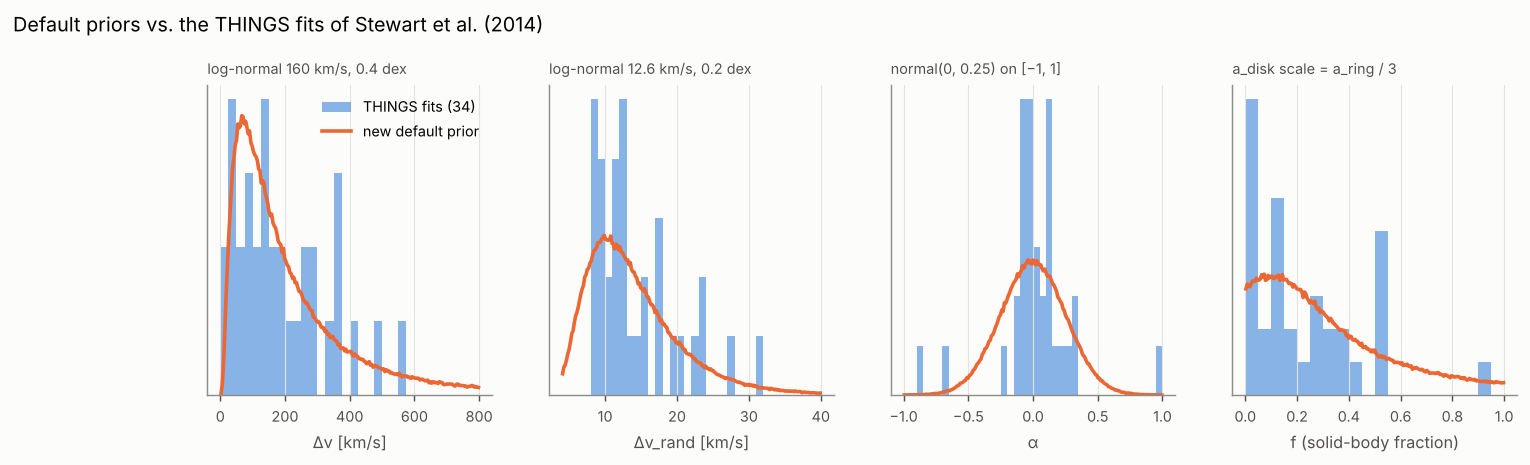
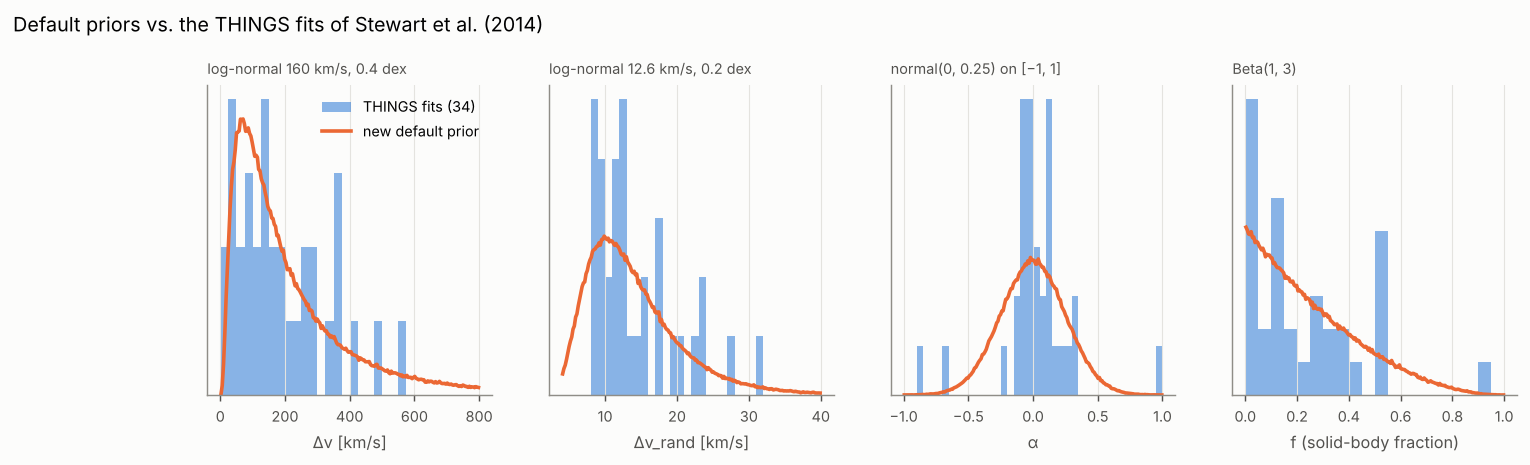
f prior Beta(1, 3) from THINGS; f bounds are not prior edges
A uniform prior on the solid-body fraction gave dome-shaped, solid-body
profiles 30 % of the prior mass; at low S/N it pulled posterior medians
to 0.5-0.8 even for 350 km/s wide lines, an unphysical combination. The
THINGS fits reject a uniform f (KS p < 0.001); Beta(1, 3), density
3 (1 - f)^2, matches them (p = 0.13) and is close to the exponentially
decreasing prior described by Stewart et al. (2014, App. B.2). New prior
kind 'beta' (shapes a, b on [low, high]); the simulator draws from it.

f is no longer checked by the prior-edge diagnostic: [0, 1] is its
definition and f near 0 is a valid result, not a truncation.

Claude-Session: https://claude.ai/code/session_01HNuVsUUJVtD1RaQHWi7F3J

diff --git a/hiprofile/inference/priors.py b/hiprofile/inference/priors.py
@@ -46,7 +46,7 @@ class Bounds1D:
 
     ``uniform`` and ``loguniform`` on [low, high]; ``normal`` (mean, std) and
     ``lognormal`` (mean, std of log10 x), truncated to [low, high] (infinite
-    bounds allowed).
+    bounds allowed); ``beta`` (shapes a, b) scaled to [low, high].
     """
 
     kind: str
@@ -54,6 +54,8 @@ class Bounds1D:
     high: float
     mean: float = 0.0
     std: float = 1.0
+    a: float = 1.0
+    b: float = 1.0
 
     def _z(self, x: np.ndarray) -> np.ndarray:
         x = np.asarray(x, dtype=float)
@@ -74,6 +76,8 @@ class Bounds1D:
             return self.low + (self.high - self.low) * u
         if self.kind == "loguniform":
             return np.exp(np.log(self.low) + (np.log(self.high) - np.log(self.low)) * u)
+        if self.kind == "beta":
+            return self.low + (self.high - self.low) * special.betaincinv(self.a, self.b, u)
         c_lo, c_hi = self._trunc()
         z = special.ndtri(np.clip(c_lo + (c_hi - c_lo) * u, 1e-300, 1 - 1e-16))
         x = 10.0 ** (self.mean + self.std * z) if self.kind == "lognormal" else self.mean + self.std * z
@@ -85,6 +89,9 @@ class Bounds1D:
             return np.clip((x - self.low) / (self.high - self.low), 0.0, 1.0)
         if self.kind == "loguniform":
             return np.clip((np.log(x) - np.log(self.low)) / (np.log(self.high) - np.log(self.low)), 0.0, 1.0)
+        if self.kind == "beta":
+            t = np.clip((x - self.low) / (self.high - self.low), 0.0, 1.0)
+            return special.betainc(self.a, self.b, t)
         c_lo, c_hi = self._trunc()
         return np.clip((special.ndtr(self._z(x)) - c_lo) / (c_hi - c_lo), 0.0, 1.0)
 
@@ -109,6 +116,8 @@ def _bounds(r: Range, default_low: float, default_high: float) -> Bounds1D:
         high=float(high),
         mean=0.0 if r.mean is None else float(r.mean),
         std=1.0 if r.std is None else float(r.std),
+        a=1.0 if r.a is None else float(r.a),
+        b=1.0 if r.b is None else float(r.b),
     )
 
 
@@ -263,7 +272,11 @@ class ModelPrior:
         return u
 
     def edge_bounds(self) -> dict[str, tuple[float, float]]:
-        """Hard prior edges of each named parameter (for the prior-edge diagnostic)."""
+        """Hard prior edges of each named parameter (for the prior-edge diagnostic).
+
+        Only truncations the truth could lie beyond count. f is left out: [0, 1]
+        is its definition, and f near 0 (no solid-body part) is a valid result.
+        """
         out: dict[str, tuple[float, float]] = {}
         for name in self.names:
             if name.startswith("delta_v_rand"):
@@ -272,8 +285,6 @@ class ModelPrior:
                 out[name] = self.delta_v.edges
             elif name.startswith("alpha"):
                 out[name] = self.alpha.edges
-            elif name.startswith("f_"):
-                out[name] = self.f.edges
         return out
 
     def __call__(self, u: np.ndarray) -> np.ndarray:

diff --git a/hiprofile/config.py b/hiprofile/config.py
@@ -21,20 +21,25 @@ class Range(_Base):
     """A one-dimensional prior.
 
     ``uniform`` and ``loguniform`` on [low, high]; ``normal`` (mean, std) and
-    ``lognormal`` (mean and std of log10 x) optionally truncated to [low, high].
+    ``lognormal`` (mean and std of log10 x) optionally truncated to [low, high];
+    ``beta`` (shape parameters a, b) scaled to [low, high].
     """
 
-    kind: Literal["uniform", "loguniform", "normal", "lognormal"] = "uniform"
+    kind: Literal["uniform", "loguniform", "normal", "lognormal", "beta"] = "uniform"
     low: float | None = None
     high: float | None = None
     mean: float | None = None
     std: float | None = None
+    a: float | None = None
+    b: float | None = None
 
     @model_validator(mode="after")
     def _check(self) -> Range:
         if self.kind in ("normal", "lognormal"):
             if self.mean is None or self.std is None or self.std <= 0:
                 raise ValueError(f"{self.kind} prior needs mean and std > 0")
+        if self.kind == "beta" and (self.a is None or self.b is None or self.a <= 0 or self.b <= 0):
+            raise ValueError("beta prior needs shape parameters a > 0 and b > 0")
         if self.low is not None and self.high is not None and self.high <= self.low:
             raise ValueError("prior needs high > low")
         if self.kind == "loguniform" and self.low is not None and self.low <= 0:
@@ -66,9 +71,9 @@ class Priors(_Base):
         description="Asymmetry: normal(0, 0.25) truncated to [-1, 1] (THINGS: median 0.00, robust std 0.14)",
     )
     f: Range = Field(
-        default_factory=lambda: Range(kind="uniform", low=0.0, high=1.0),
-        description="Solid-body fraction: uniform on [0, 1] (Stewart et al. used a nearly flat "
-        "exponential; THINGS median 0.15, mean 0.23)",
+        default_factory=lambda: Range(kind="beta", a=1.0, b=3.0, low=0.0, high=1.0),
+        description="Solid-body fraction: Beta(1, 3), density 3 (1 - f)^2, median 0.21, P(f > 0.7) = 2.7 %; "
+        "fitted to the 34 THINGS galaxies (median 0.15, 3 % above 0.7), which reject a uniform prior",
     )
     amplitude_scale: float | Literal["auto"] = Field(
         "auto",
@@ -91,8 +96,8 @@ class Priors(_Base):
     @classmethod
     def _bounded(cls, v: Range, info: ValidationInfo) -> Range:
         lo_max, hi_max = (-1.0, 1.0) if info.field_name == "alpha" else (0.0, 1.0)
-        if v.kind not in ("uniform", "normal"):
-            raise ValueError(f"{info.field_name} prior must be uniform or (truncated) normal")
+        if v.kind not in ("uniform", "normal", "beta"):
+            raise ValueError(f"{info.field_name} prior must be uniform, (truncated) normal or beta")
         low = lo_max if v.low is None else v.low
         high = hi_max if v.high is None else v.high
         if low < lo_max or high > hi_max:

diff --git a/tests/test_priors.py b/tests/test_priors.py
@@ -32,11 +32,11 @@ def test_normal_centre_prior():
     p = build_prior(("profile",), pr, v)
     t = p(np.full((1, 5), 0.5))
     assert abs(t[0, 0] - 250.0) < 1e-9
-    assert abs(t[0, 4] - 0.5) < 1e-12  # uniform f
+    assert abs(t[0, 4] - (1 - 0.5 ** (1 / 3))) < 1e-12  # median of Beta(1, 3)
 
 
 def test_default_shapes_follow_things(rng):
-    """Defaults: Delta v ~ 160 km/s, Delta v_rand ~ 12.6 km/s, alpha ~ N(0, 0.25), f uniform."""
+    """Defaults: Delta v ~ 160 km/s, Delta v_rand ~ 12.6 km/s, alpha ~ N(0, 0.25), f ~ Beta(1, 3)."""
     v = np.arange(1000) * 5.0
     p = build_prior(("profile",), Priors(), v)
     t = p(rng.uniform(size=(200000, 5)))
@@ -46,17 +46,25 @@ def test_default_shapes_follow_things(rng):
     assert abs(np.median(dv) - 151.4) < 3 and dv.max() <= 800.0
     assert abs(np.median(sig) - 12.6) < 0.3 and sig.min() >= 4.0 and sig.max() <= 60.0
     assert abs(np.std(a) - 0.25) < 0.01 and np.all(np.abs(a) <= 1)
-    assert abs(np.mean(f) - 0.5) < 0.005 and abs(np.std(f) - 1 / np.sqrt(12)) < 0.003
+    assert abs(np.mean(f) - 0.25) < 0.003 and abs(np.median(f) - (1 - 0.5 ** (1 / 3))) < 0.003
+    assert abs(np.mean(f > 0.7) - 0.3**3) < 0.002 and f.min() >= 0 and f.max() <= 1
 
 
-def test_edges_include_f():
+def test_edges_exclude_definitional_bounds_of_f():
     p = build_prior(("profile",), Priors(), np.arange(100) * 5.0)
-    assert p.edge_bounds()["f_1"] == (0.0, 1.0)
+    edges = p.edge_bounds()
+    assert "f_1" not in edges
+    assert edges["delta_v_rand_1"] == (4.0, 60.0) and edges["alpha_1"] == (-1.0, 1.0)
 
 
 def test_truncated_round_trip(rng):
     from hiprofile.inference.priors import Bounds1D
 
     u = rng.uniform(size=1000)
-    for b in (Bounds1D("lognormal", 4.0, 60.0, mean=1.1, std=0.2), Bounds1D("normal", -1.0, 1.0, std=0.25)):
+    for b in (
+        Bounds1D("lognormal", 4.0, 60.0, mean=1.1, std=0.2),
+        Bounds1D("normal", -1.0, 1.0, std=0.25),
+        Bounds1D("beta", 0.0, 1.0, a=1.0, b=3.0),
+        Bounds1D("beta", 0.0, 1.0, a=0.55, b=1.86),
+    ):
         np.testing.assert_allclose(b.inverse(b.transform(u)), u, atol=1e-10)

diff --git a/docs/make_figures.py b/docs/make_figures.py
@@ -69,7 +69,7 @@ def priors() -> Path:
         ),
         ("delta_v_rand", "Δv_rand [km/s]", np.linspace(4, 40, 37), "log-normal 12.6 km/s, 0.2 dex"),
         ("alpha", "α", np.linspace(-1, 1, 41), "normal(0, 0.25) on [−1, 1]"),
-        ("f", "f (solid-body fraction)", np.linspace(0, 1, 21), "uniform on [0, 1]"),
+        ("f", "f (solid-body fraction)", np.linspace(0, 1, 21), "Beta(1, 3)"),
     ]
     fig, axes = plt.subplots(1, 4, figsize=(13, 3.1))
     for ax, (key, label, bins, desc) in zip(axes, panels, strict=True):

diff --git a/docs/priors.md b/docs/priors.md
@@ -13,18 +13,31 @@ lower S/N.
 | Δv | log-normal, log₁₀ = 2.2 ± 0.4 (≈ 160 km/s), ≤ 800 km/s | 0.1–566 km/s, median 153; two dwarfs with Δv ≈ 0 | Stewart B.2: log-normal 2.2 ± 0.3; ALFALFA width function: modified Schechter with w* ≈ 300 km/s, α ≈ −0.56 (Oman 2022) |
 | Δv_rand | log-normal, log₁₀ = 1.1 ± 0.2 (≈ 12.6 km/s), 4–60 km/s | 8–32 km/s, median 12.4, log₁₀ 1.13 ± 0.16 | Stewart B.2: 1.17 ± 0.14; resolved HI dispersions ≈ 10 ± 2 km/s (Tamburro et al. 2009); narrow / broad super-profile components 6.5 ± 1.5 / 16.8 ± 4.3 km/s (Ianjamasimanana et al. 2012) |
 | α | normal(0, 0.25) truncated to [−1, 1] | median 0.00, robust σ 0.14; 3 of 34 with \|α\| > 0.6 (NGC 3077, NGC 1569, Ho I) | Stewart B.2: normal(0, 0.2) |
-| f | uniform on [0, 1] (sampled parameter) | median 0.15, mean 0.23 | Stewart B.2: exponential with scale 0.3, i.e. nearly flat on [0, 1] |
+| f | Beta(1, 3), density 3(1 − f)², median 0.21, P(f > 0.7) = 2.7 % | median 0.15, mean 0.23, 1 of 34 above 0.7 (0.93); a uniform prior is rejected (KS p < 0.001), Beta(1, 3) is not (p = 0.13) | Stewart B.2: exponentially decreasing with characteristic constant 0.3 (printed as 0.3 e^(−0.3 f), which would be nearly flat; the text describes a decreasing prior) |
 | v_ctr | uniform over the band minus 5 % margins; normal(v_cat, 20–50 km/s) for targeted spectra | – | Stewart B.2: normal, σ = 20 km/s |
 | S | half-normal (`amplitude_scale`, fix per survey) | – | Stewart: flat (improper, unusable for evidences) |
 | K | flat over `k_min` … `k_max`, coefficients N(0, `baseline_scale`²) | – | Stewart: order by maximum evidence |
 
 All priors are simple one-parameter-family shapes (log-normal, truncated
-normal, uniform, half-normal); Δv uses 0.4 dex instead of the 0.3 dex of
+normal, beta, uniform, half-normal); Δv uses 0.4 dex instead of the 0.3 dex of
 Stewart et al. so that narrow dwarf profiles keep prior mass. The flux S keeps
 a half-normal prior so that it can be marginalised analytically; positivity
 enters the sampling target exactly through the orthant probability (see
 [Inference](inference.md)). f is a sampled parameter with its own prior: an
 implicit f prior from two amplitude scales would depend on S.
+
+**Solid-body fraction.** f is the fraction of the HI inside the radius where
+the rotation curve turns over. In spirals that radius is small compared with
+the HI disk, so most of the gas sits on the flat part and f is small; only
+dwarfs whose rotation curve rises across the whole disk approach f ≈ 1. A
+uniform prior gave such solid-body profiles 30 % of the prior mass, and at
+low S/N, where the data barely constrain f, it pulled posterior medians to
+0.5–0.8 even for 350 km/s wide lines. Beta(1, 3) follows the THINGS
+distribution and keeps f > 0.7 possible (2.7 %) but rare. Physics also says
+that f should fall with galaxy mass, but the THINGS fits show only a weak
+trend with Δv (Spearman r = −0.22, p = 0.22), and Δv is V_rot sin i, so a
+prior on f conditional on Δv would also penalise face-on spirals; f keeps a
+single prior.
 
 The simulator draws from the same priors (`hiprofile simulate`, all
 validation stages), so simulated galaxies look like the ones the fit expects.

diff --git a/docs/configuration.md b/docs/configuration.md
@@ -20,7 +20,7 @@ The validated configuration, the code version and the seed are written into ever
 | `priors.delta_v` | `Range` | `{'kind': 'lognormal', 'low': 0.0, 'high': 800.0, 'mean': 2.2, 'std': 0.4}` | Line width [km/s]: log-normal around 160 km/s, 0.4 dex (THINGS: 0.1-566 km/s, median 153) |
 | `priors.delta_v_rand` | `Range` | `{'kind': 'lognormal', 'low': 4.0, 'high': 60.0, 'mean': 1.1, 'std': 0.2}` | Random motions [km/s]: log-normal around 12.6 km/s (THINGS: 8-32 km/s) |
 | `priors.alpha` | `Range` | `{'kind': 'normal', 'low': -1.0, 'high': 1.0, 'mean': 0.0, 'std': 0.25}` | Asymmetry: normal(0, 0.25) truncated to [-1, 1] (THINGS: median 0.00, robust std 0.14) |
-| `priors.f` | `Range` | `{'kind': 'uniform', 'low': 0.0, 'high': 1.0}` | Solid-body fraction: uniform on [0, 1] (Stewart et al. used a nearly flat exponential; THINGS median 0.15, mean 0.23) |
+| `priors.f` | `Range` | `{'kind': 'beta', 'low': 0.0, 'high': 1.0, 'a': 1.0, 'b': 3.0}` | Solid-body fraction: Beta(1, 3), density 3 (1 - f)^2, median 0.21, P(f > 0.7) = 2.7 %; fitted to the 34 THINGS galaxies (median 0.15, 3 % above 0.7), which reject a uniform prior |
 | `priors.amplitude_scale` | `Union[float, Literal['auto']]` | `auto` | Std of the half-normal prior on the integrated flux S of each component [flux * km/s]. Fix it for a survey so that evidences are comparable between spectra. |
 | `priors.baseline_scale` | `Union[float, Literal['auto']]` | `auto` | Std of the Chebyshev coefficients; auto = 10 x noise rms |
 | `priors.baseline_mean` | `list[float] \| None` | `null` |  |
@@ -79,7 +79,7 @@ Prior ranges (`priors.v_ctr`, `priors.delta_v`, ...) take `kind` (`uniform`, `lo
 | `n_components` | `int \| list[float]` | `1` |  |
 | `profiles` | `Literal['model', 'template', 'mixed']` | `model` |  |
 | `template_files` | `list[str]` | `[]` |  |
-| `priors` | `Priors` | `{'v_ctr': {'kind': 'uniform'}, 'v_margin': 0.05, 'delta_v': {'kind': 'lognormal', 'low': 0.0, 'high': 800.0, 'mean': 2.2, 'std': 0.4}, 'delta_v_rand': {'kind': 'lognormal', 'low': 4.0, 'high': 60.0, 'mean': 1.1, 'std': 0.2}, 'alpha': {'kind': 'normal', 'low': -1.0, 'high': 1.0, 'mean': 0.0, 'std': 0.25}, 'f': {'kind': 'uniform', 'low': 0.0, 'high': 1.0}, 'amplitude_scale': 'auto', 'baseline_scale': 'auto', 'rfi_sigma_channels': (0.3, 1.0)}` |  |
+| `priors` | `Priors` | `{'v_ctr': {'kind': 'uniform'}, 'v_margin': 0.05, 'delta_v': {'kind': 'lognormal', 'low': 0.0, 'high': 800.0, 'mean': 2.2, 'std': 0.4}, 'delta_v_rand': {'kind': 'lognormal', 'low': 4.0, 'high': 60.0, 'mean': 1.1, 'std': 0.2}, 'alpha': {'kind': 'normal', 'low': -1.0, 'high': 1.0, 'mean': 0.0, 'std': 0.25}, 'f': {'kind': 'beta', 'low': 0.0, 'high': 1.0, 'a': 1.0, 'b': 3.0}, 'amplitude_scale': 'auto', 'baseline_scale': 'auto', 'rfi_sigma_channels': (0.3, 1.0)}` |  |
 | `flux` | `Literal['prior', 'snr']` | `snr` |  |
 | `snr_range` | `tuple[float, float]` | `(3.0, 100.0)` |  |
 | `noise_sigma` | `float` | `0.01` |  |

diff --git a/docs/outputs.md b/docs/outputs.md
@@ -68,7 +68,7 @@ crossings.
 | `chi2_red`, `ppp` (posterior predictive p) | `ppp` | p < `diagnostics.ppp_min` (0.01) |
 | `wiggle_J`, `wiggle_snr` (Stewart et al. Eq. 8) | `wiggle` | J > `wiggle_max` and J² significant at 3σ |
 | `residual_acf` (lag 1–3, in units of 1/√n) | `residual_acf` | any \|value\| > `acf_sigma` (4) |
-| `edge_<par>`, `edge_mass` (posterior mass next to a bound of f, α, Δv, Δv_rand: within half the posterior's 16–84 % width, at most 1/20 of the range) | `prior_edge` | > `edge_mass` (0.2): the bound cuts the posterior |
+| `edge_<par>`, `edge_mass` (posterior mass next to a bound of α, Δv, Δv_rand (f is bounded by definition and not checked): within half the posterior's 16–84 % width, at most 1/20 of the range) | `prior_edge` | > `edge_mass` (0.2): the bound cuts the posterior |
 | `multimodal_weight`, `multimodal_separation` (2-means in the unit cube) | `multimodal` | weight > 0.1 and separation > 4 |
 | `ess` (Kish) | `low_ess` | < `min_ess` (500) |
 | `logz_check_sigma` (check mode) | `logz_mismatch` | > `logz_sigma` (3) |
